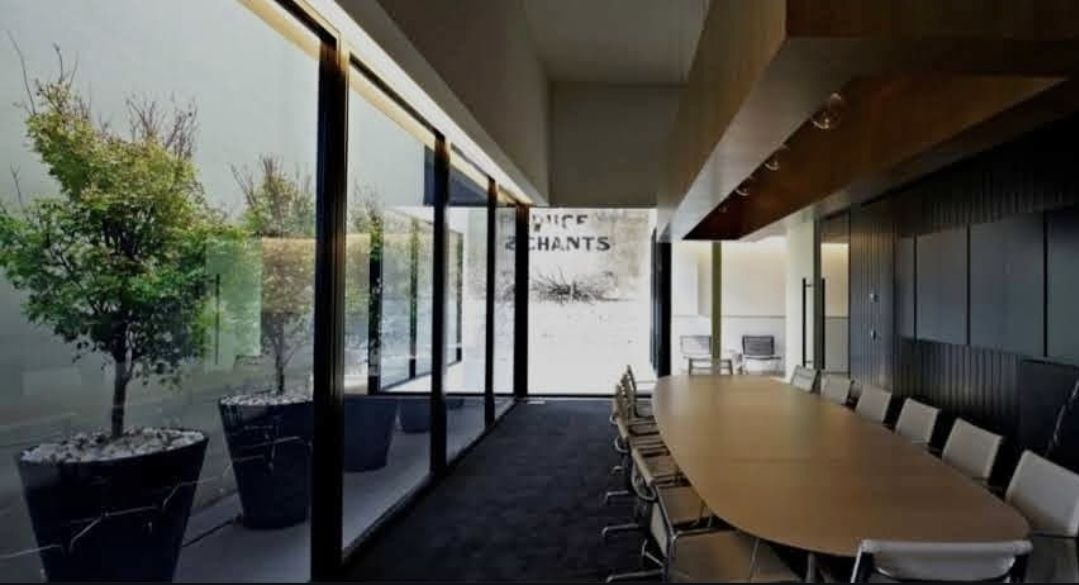
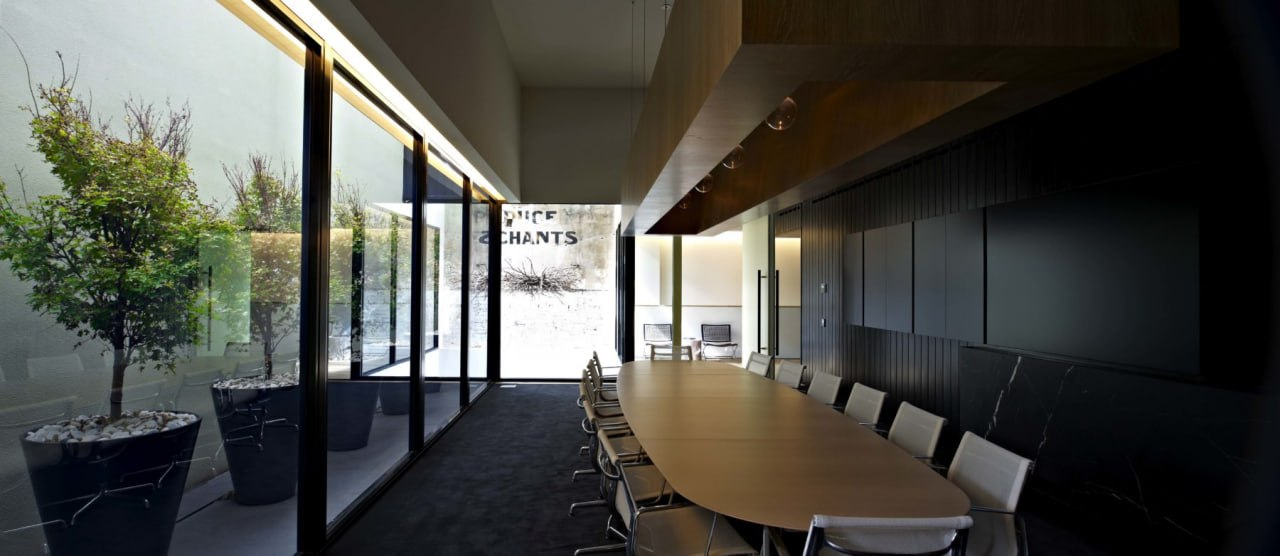
Swap the boardroom card photo for the sharper version Juan sent
Same South Yarra room. The original was 1079x585 and visibly soft; the
replacement is 1280x556 and sharp. It is a 2.3:1 frame going into a 4:3 card,
so object-fit:cover centre-crops it onto the table and the glass, which reads
well. Old file retired.

diff --git a/index.html b/index.html
@@ -463,7 +463,7 @@ footer.site img.mark{height:clamp(88px,9vw,120px);width:clamp(88px,9vw,120px);ma
       <div class="stack gap-s"><span class="label">Services</span><h2>What we do</h2></div>
       <ul class="cards">
         <li class="card">
-          <img src="img/office-cleaning-south-yarra-melbourne-boardroom.jpg" width="1079" height="585" loading="lazy" decoding="async" alt="Property developer's boardroom in South Yarra Melbourne cleaned by Blancoz">
+          <img src="img/office-cleaning-south-yarra-melbourne-boardroom.jpg" width="1280" height="556" loading="lazy" decoding="async" alt="Property developer's boardroom in South Yarra Melbourne cleaned by Blancoz">
           <div class="body">
             <h3>Commercial Cleaning</h3>
             <p>Regular scheduled cleaning for offices, allied health clinics, childcare centres, showrooms and sporting and community facilities. From twice a week to daily.</p>

diff --git a/build_site.py b/build_site.py
@@ -27,7 +27,9 @@ IMAGES = {
 "OFFICE2":  ("site-photos/03-office-architects-studio.jpg",
              "office-cleaning-richmond-melbourne-architecture-studio.jpg",
              "Architecture studio in Richmond Melbourne after a weekly commercial clean"),
-"OFFICE4":  ("site-photos/office-south-yarra-developer-boardroom.jpg",
+# v2, sent 22 Aug: sharper and wider than the original, which was visibly soft.
+# It is a 2.3:1 crop going into a 4:3 card, so see .card img object-position.
+"OFFICE4":  ("site-photos/office-south-yarra-developer-boardroom-v2.jpg",
              "office-cleaning-south-yarra-melbourne-boardroom.jpg",
              "Property developer's boardroom in South Yarra Melbourne cleaned by Blancoz"),
 "OFFICE3":  ("site-photos/04-office-bayside-glass-partitions.jpg",
